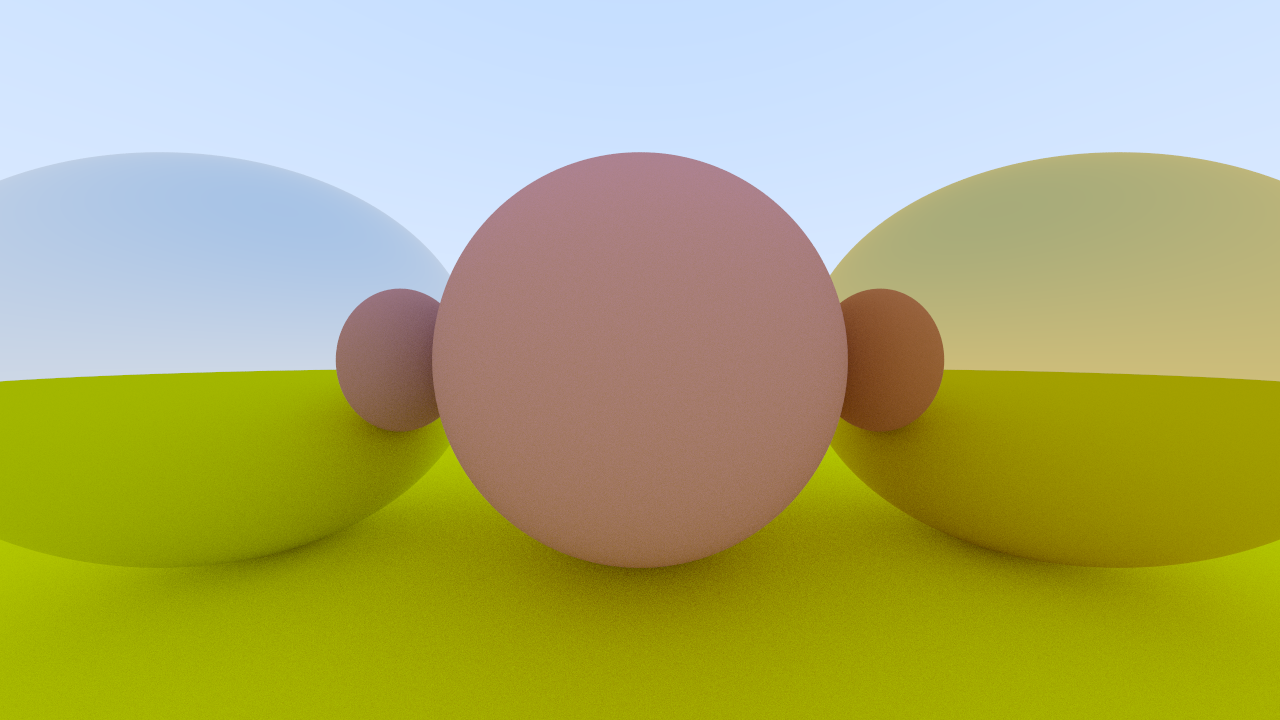
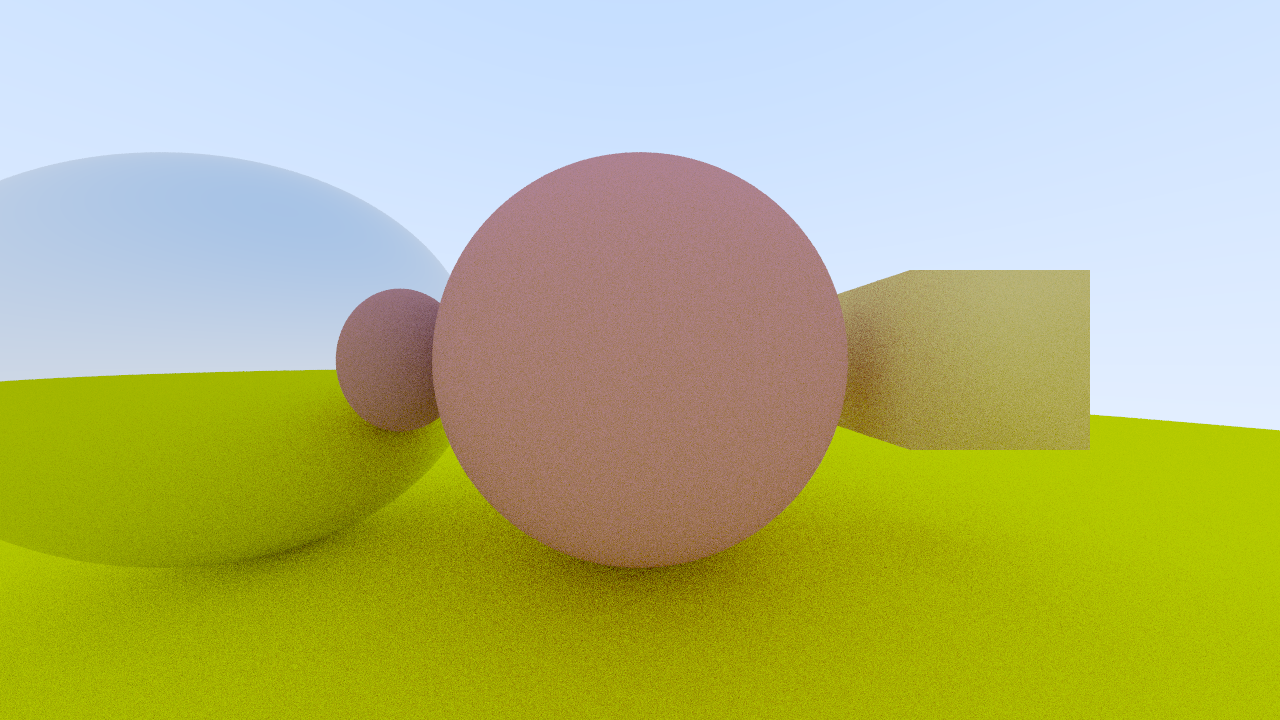
support aabb

Changed region(s): [[0.3438, 0.2139, 1.0, 0.9778], [0.2812, 0.55, 0.3438, 0.6111], [0.2188, 0.7639, 0.25, 0.7944]]

diff --git a/src/main.rs b/src/main.rs
@@ -7,7 +7,7 @@ use std::{
 
 use lib_rs::{
     color::{rgba, Color},
-    geometry::{self, Sphere},
+    geometry::{self, AxisAlignedBox, Sphere},
     linear_algebra::{vector::vec3, Vector3},
     ray::Ray,
 };
@@ -28,29 +28,33 @@ fn main() {
     let mut scene = Scene::new();
 
     scene.add(
-        Sphere::new(vec3(0.0, 0.0, -1.0), 0.5),
+        Box::new(Sphere::new(vec3(0.0, 0.0, -1.0), 0.5)),
         Material {
             kind: MaterialKind::Lambertian,
             color: rgba(0.7, 0.3, 0.3, 1.0),
         },
     );
     scene.add(
-        Sphere::new(vec3(-1.0, 0.0, -1.0), 0.5),
+        Box::new(Sphere::new(vec3(-1.0, 0.0, -1.0), 0.5)),
         Material {
             kind: MaterialKind::Metal,
             color: rgba(0.8, 0.8, 0.8, 1.0),
         },
     );
-    scene.add(
-        Sphere::new(vec3(1.0, 0.0, -1.0), 0.5),
-        Material {
-            kind: MaterialKind::Metal,
-            color: rgba(0.8, 0.6, 0.2, 1.0),
-        },
-    );
+    // scene.add(
+    //     Sphere::new(vec3(1.0, 0.0, -1.0), 0.5),
+    //     Material {
+    //         kind: MaterialKind::Metal,
+    //         color: rgba(0.8, 0.6, 0.2, 1.0),
+    //     },
+    // );
+    scene.add(Box::new(AxisAlignedBox::new(vec3(0.6,-0.2,-1.2),vec3(1.0,0.2,-0.8))),Material{
+        kind:MaterialKind::Lambertian,
+        color:rgba(0.8, 0.6, 0.2, 1.0)
+    });
     // ground needs to be added last; ray only hit one target
     scene.add(
-        Sphere::new(vec3(0.0, -100.5, -1.0), 100.0),
+        Box::new(Sphere::new(vec3(0.0, -100.5, -1.0), 100.0)),
         Material {
             kind: MaterialKind::Lambertian,
             color: rgba(0.8, 0.8, 0.0, 1.0),

diff --git a/src/renderer.rs b/src/renderer.rs
@@ -106,7 +106,7 @@ impl Camera {
 }
 
 pub struct Scene {
-    entities: Vec<(Sphere, Material)>,
+    entities: Vec<(Box<dyn Hitable>, Material)>,
 }
 
 impl Scene {
@@ -116,13 +116,13 @@ impl Scene {
     pub fn ray_cast(&self, ray: Ray) -> Option<(HitRecord, Material)> {
         let mut iter = self.entities.iter();
         while let Some((s, m)) = iter.next() {
-            if let Some(r) = ray.hit(*s, 0.001..INFINITY) {
+            if let Some(r) = ray.hit(s, 0.001..INFINITY) {
                 return Some((r, *m));
             };
         }
         None
     }
-    pub fn add(&mut self, g: Sphere, m: Material) {
+    pub fn add(&mut self, g: Box<dyn Hitable>, m: Material) {
         self.entities.push((g, m));
     }
 }
@@ -166,12 +166,12 @@ impl<'a> Renderer<'a> {
         let mut pixels =
             Vec::with_capacity((self.camera.frame_size.0 * self.camera.frame_size.1) as usize);
         let bar = ProgressBar::new(pixels.capacity() as u64);
-        const SAMPLES: usize = 128;
+        const SAMPLES: usize = 16;
         use rayon::prelude::*;
         for j in 0..self.camera.frame_size.1 {
             for i in 0..self.camera.frame_size.0 {
                 let accu_color: Color = (0..SAMPLES)
-                    .into_par_iter()
+                    .into_iter()
                     .map(|_| {
                         let mut rng = rand::thread_rng();
                         let ray = self.camera.get_ray_at(i, j, &mut rng);
